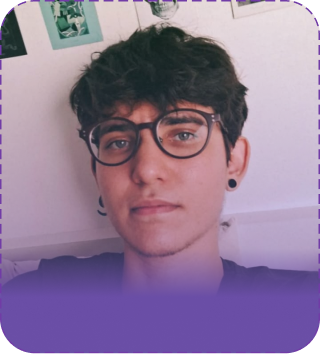
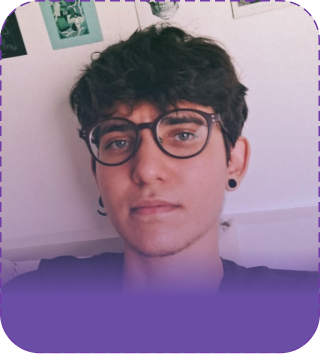
Adicionando +1 foto ao carrossel de diretories

diff --git a/src/js/ilustracoes.js b/src/js/ilustracoes.js
@@ -4,31 +4,30 @@ let isDown = false
 let startX
 let scrollLeft
 
-// seleção de carrosséis
-for (let i = 0; i <= 1; i++) {
-    sliders[i].addEventListener('mousedown', (e) => {
+sliders.forEach((slider) => {
+    slider.addEventListener('mousedown', (e) => {
         isDown = true
         
         // realizar movimento horizontal
-        scrollLeft = sliders[i].scrollLeft
-        startX = e.pageX - sliders[i].offsetLeft
+        scrollLeft = slider.scrollLeft
+        startX = e.pageX - slider.offsetLeft
         
-        sliders[i].style.cursor = 'grabbing'
+        slider.style.cursor = 'grabbing'
     })
     
-    sliders[i].addEventListener('mouseleave', () => {
+    slider.addEventListener('mouseleave', () => {
         isDown = false
         
-        sliders[i].style.cursor = 'grabbing'
+        slider.style.cursor = 'grabbing'
     })
     
-    sliders[i].addEventListener('mouseup', () => {
+    slider.addEventListener('mouseup', () => {
         isDown = false
         
-        sliders[i].style.cursor = 'grab'
+        slider.style.cursor = 'grab'
     })
     
-    sliders[i].addEventListener('mousemove', (e) => {
+    slider.addEventListener('mousemove', (e) => {
         if (isDown === false) { // não fazer nada se o clique não estiver pressionado
             return
 
@@ -36,9 +35,9 @@ for (let i = 0; i <= 1; i++) {
             e.preventDefault()
             
             // realizar aceleração do movimento horizontal
-            const x = e.pageX - sliders[i].offsetLeft
+            const x = e.pageX - slider.offsetLeft
             const walk = (x - startX) * 1
-            sliders[i].scrollLeft = scrollLeft - walk
+            slider.scrollLeft = scrollLeft - walk
         }
     })
-}
+})

diff --git a/src/css/responsive.css b/src/css/responsive.css
@@ -117,13 +117,6 @@
         letter-spacing: 1.6px;
         margin: auto 15%;
     }
-    #conteudo #membres .diretories .ilustracoes .imgs {
-        gap: 5em;
-        overflow-x: hidden;
-    }
-    #conteudo #membres .diretories .ilustracoes .aviso {
-        display: none;
-    }
 
     #conteudo #parceires .parceires {
         gap: 5em;
@@ -347,10 +340,11 @@
         transform: translateY(550%);
     }
     #conteudo #membres .diretories .ilustracoes .imgs {
-        padding-left: calc(100vw - 90vw);
-        padding-right: calc(100vw - 90vw);
+        padding-left: calc(100vw - 62vw);
+        padding-right: calc(100vw - 62vw);
     }
     #conteudo #membres .diretories .ilustracoes .imgs figure {
+        border-radius: 2.9em;
         width: 23vw;
     }
     #conteudo #membres .diretories .ilustracoes .imgs figure figcaption {
@@ -551,8 +545,8 @@
         transform: translateY(35vh);
     }
     #conteudo #membres .diretories .ilustracoes .imgs {
-        padding-left: calc(100vw - 96vw);
-        padding-right: calc(100vw - 96vw);
+        padding-left: calc(100vw - 64vw);
+        padding-right: calc(100vw - 64vw);
     }
     #conteudo #membres .diretories .ilustracoes .imgs figure {
         width: 220px;

diff --git a/index.html b/index.html
@@ -334,6 +334,16 @@
 
                                 <figcaption> D'Angelles Coutinho </figcaption>
                             </figure>
+                        
+                            <figure>
+                                <picture>
+                                    <source media="(min-width: 1200px)" srcset="src/img/lobo-diretoria-desktop.png" type="image/png">
+                
+                                    <img src="src/img/lobo-diretoria-mobile.png" alt="Foto de diretore">
+                                </picture>
+
+                                <figcaption> Índigo Lobo </figcaption>
+                            </figure>
                         </div>
                     </div>
     

diff --git a/src/css/style.css b/src/css/style.css
@@ -397,6 +397,7 @@
     font-size: 18px;
     width: 100%;
     text-align: center;
+    text-shadow: 0px 4px 4px rgba(36, 37, 38, 0.10);
     bottom: 1.5vh;
     user-select: none;
 }
